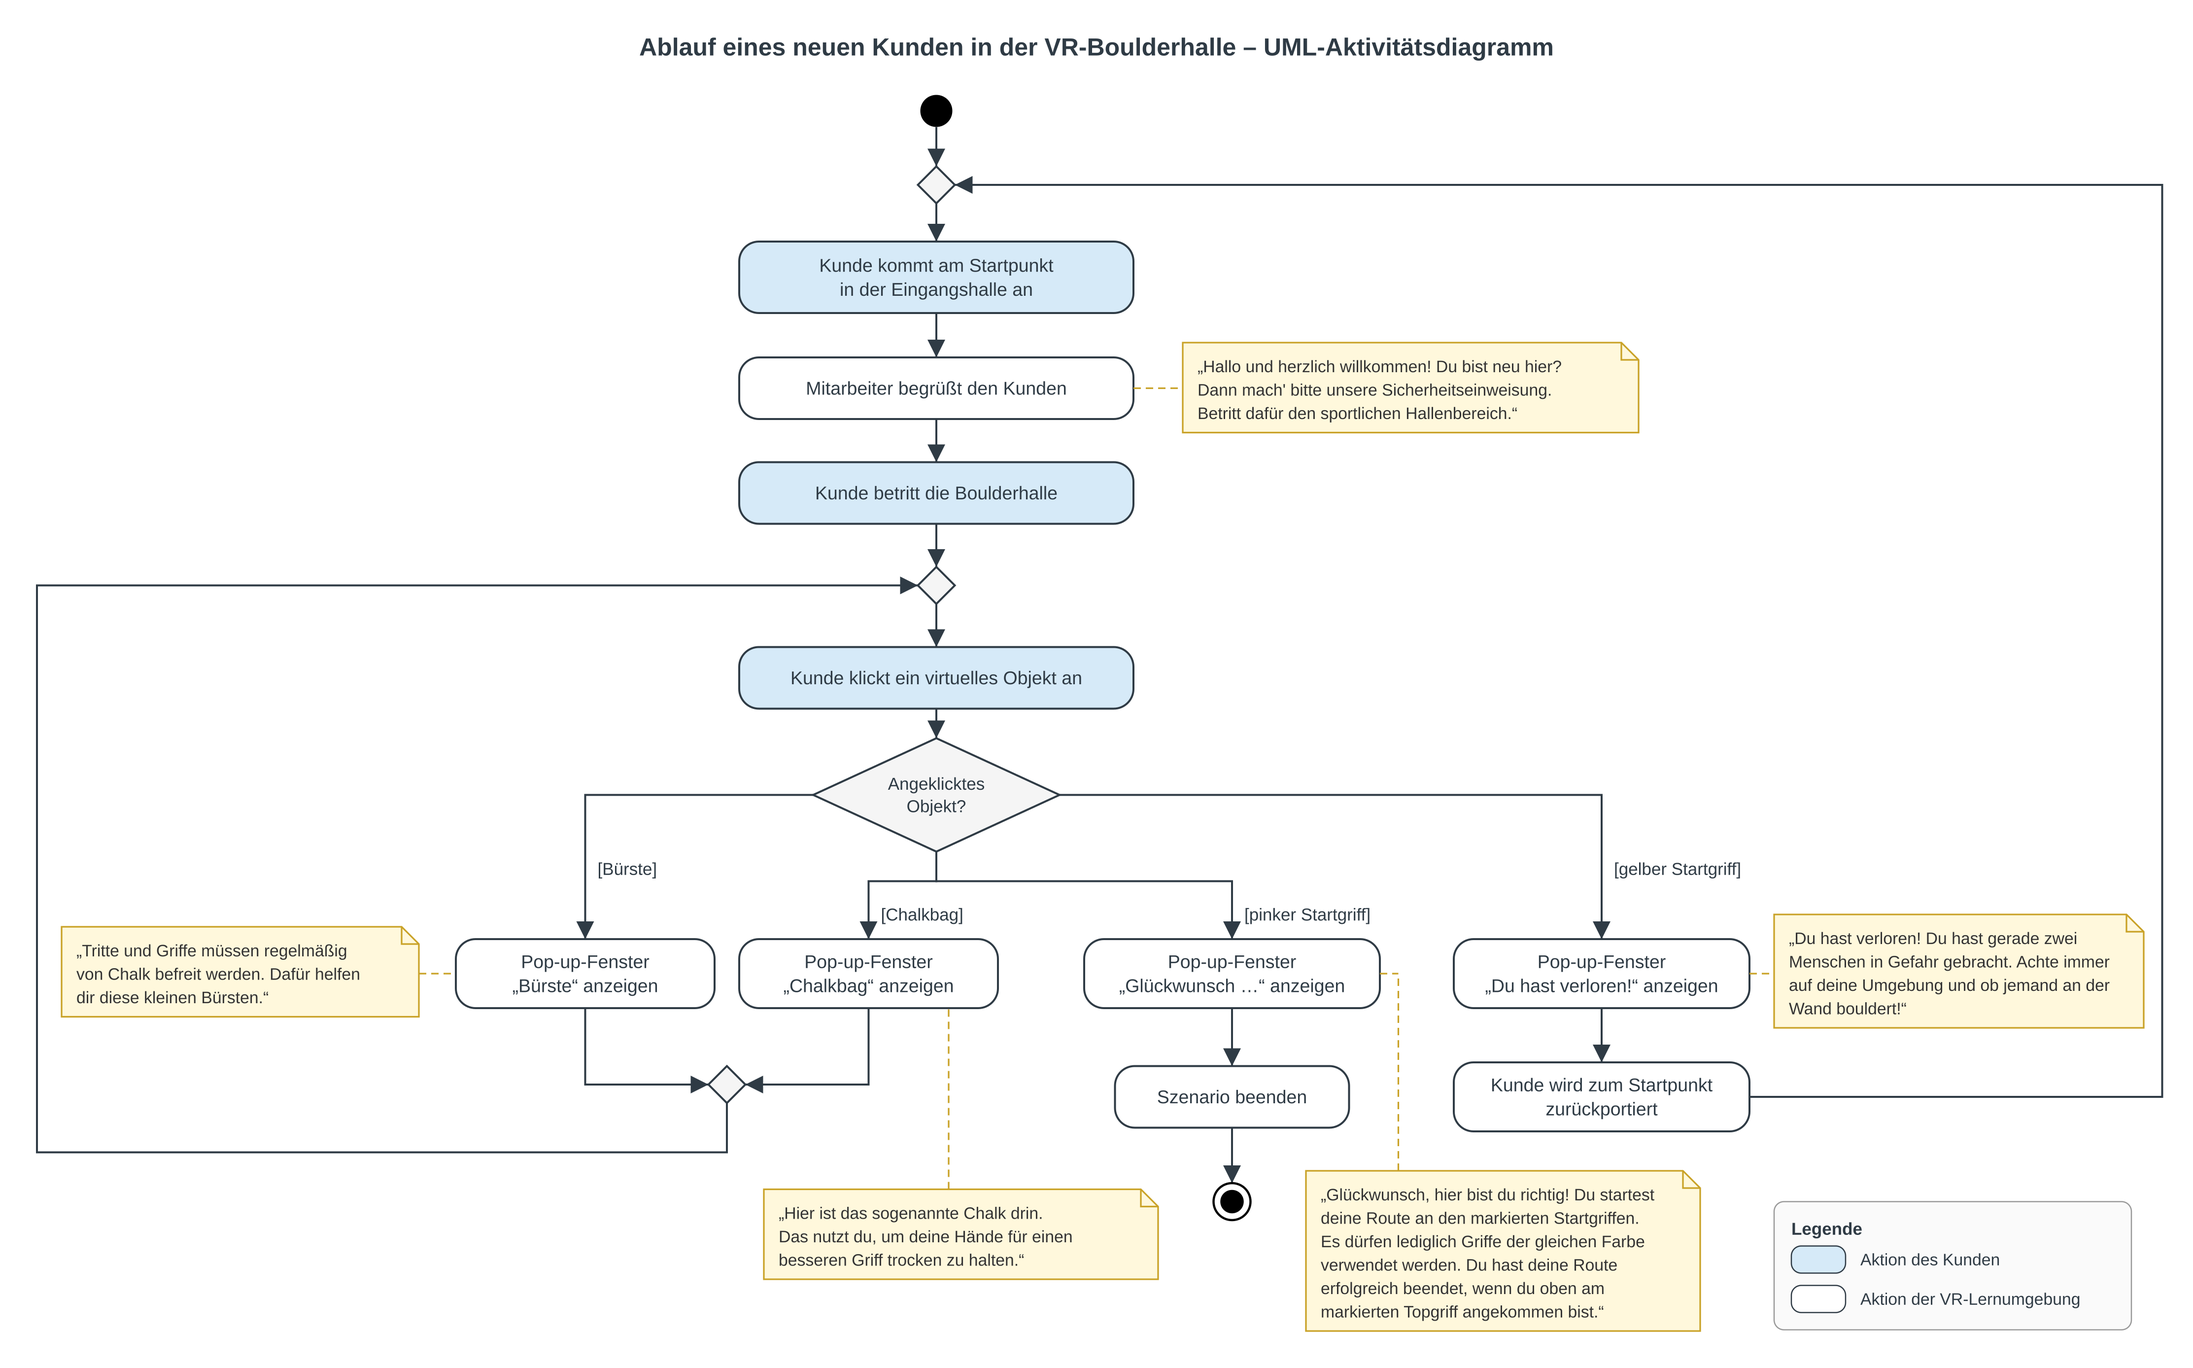
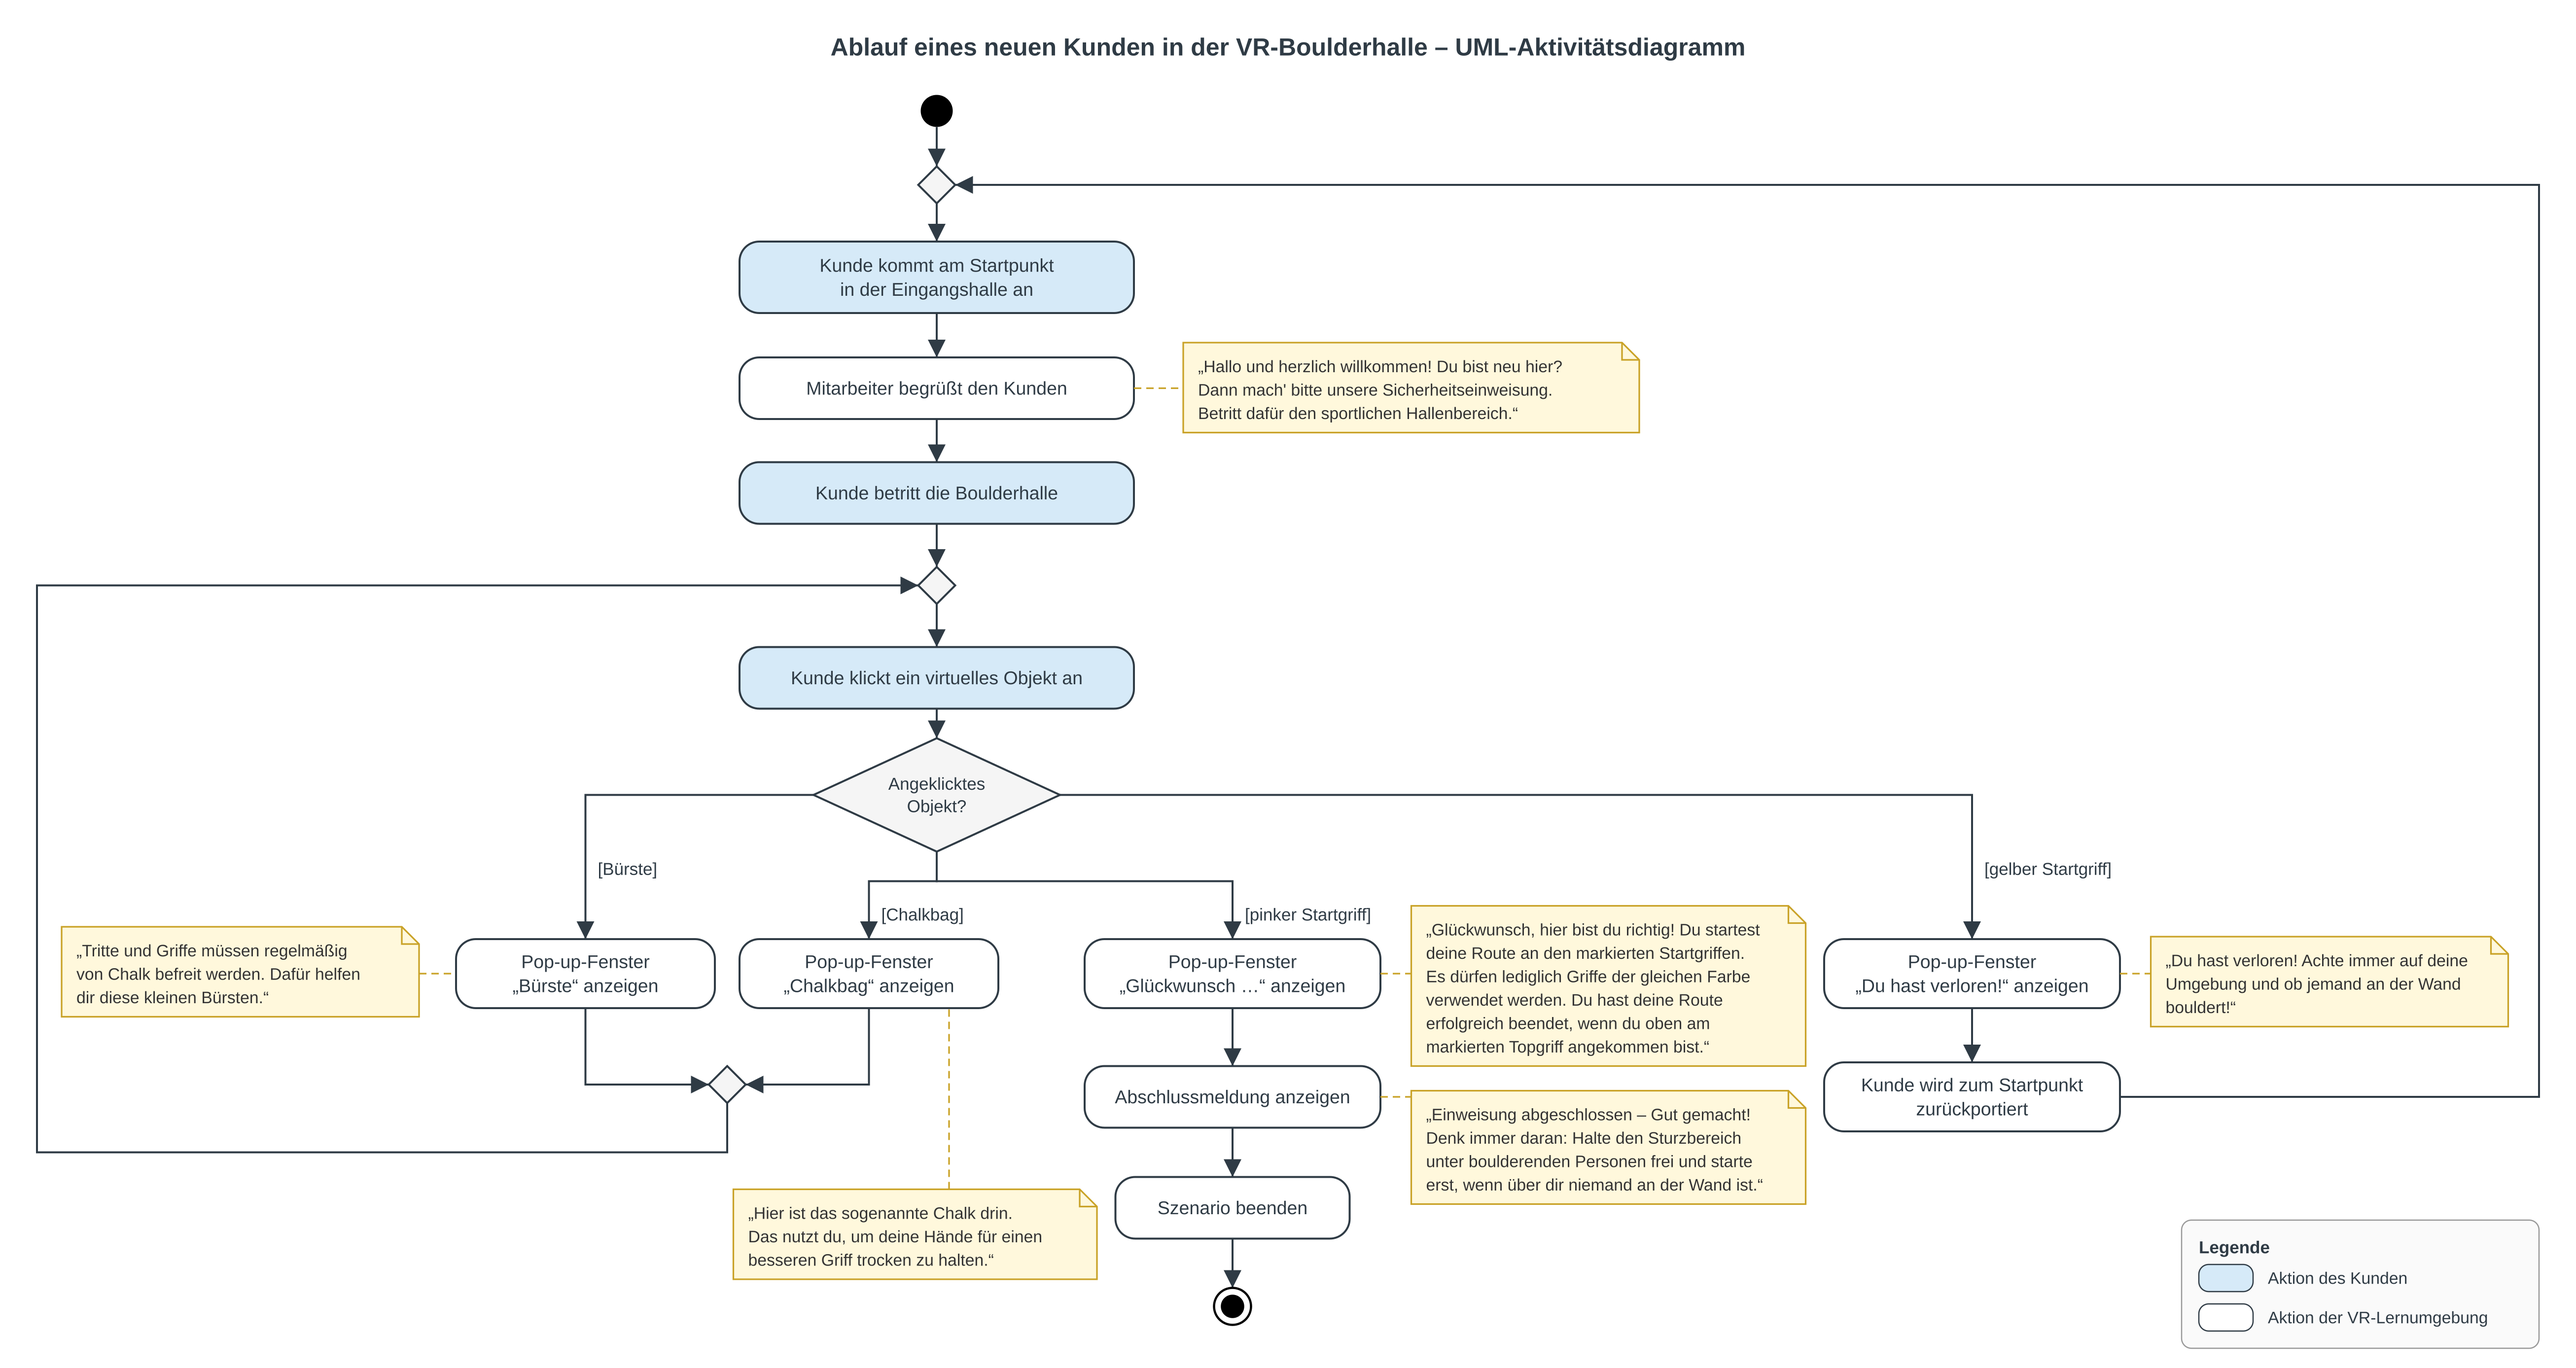
Neuer Text "Du hast verloren!" und Abschlussmeldung im Aktivitätsdiagramm
- Diagramm: gekürzter Text am gelben Startgriff, Aktion "Abschlussmeldung
  anzeigen" mit Text vor dem Szenarioende am pinken Startgriff
- ScenarioBuilder: gekürzten Text aus der Szene übernommen, damit er beim
  Neuerzeugen erhalten bleibt

Claude-Session: https://claude.ai/code/session_017R8gbnpcZh4RU8y5uNw3f7

diff --git a/docs/aktivitaetsdiagramm_kundenablauf.py b/docs/aktivitaetsdiagramm_kundenablauf.py
@@ -6,7 +6,7 @@ Texte und Positionen lassen sich unten direkt anpassen.
 """
 from xml.sax.saxutils import escape
 
-W, H = 1780, 1110
+W, H = 2090, 1110
 FONT = "Arial, Liberation Sans, Helvetica, sans-serif"
 LINE, KUNDE, SYSTEM, RAUTE = "#2F3B45", "#D6EAF8", "#FFFFFF", "#F5F5F5"
 NOTIZ, NOTIZ_RAND = "#FFF8DC", "#C9A227"
@@ -87,18 +87,20 @@ flow(a4["bottom"], d["top"])
 
 # Zweige
 by, by2 = 790, 890
-PX, GX = 1000, 1300  # Spalten pinker / gelber Startgriff
+PX, GX = 1000, 1600  # Spalten pinker / gelber Startgriff
 b1 = action(475, by, 210, 56, ["Pop-up-Fenster", "„Bürste“ anzeigen"])
 b2 = action(705, by, 210, 56, ["Pop-up-Fenster", "„Chalkbag“ anzeigen"])
 b3 = action(PX, by, 240, 56, ["Pop-up-Fenster", "„Glückwunsch …“ anzeigen"])
-b3b = action(PX, by2, 190, 50, "Szenario beenden")
+b3c = action(PX, by2, 240, 50, "Abschlussmeldung anzeigen")
+b3b = action(PX, 980, 190, 50, "Szenario beenden")
 b4 = action(GX, by, 240, 56, ["Pop-up-Fenster", "„Du hast verloren!“ anzeigen"])
 b4b = action(GX, by2, 240, 56, ["Kunde wird zum Startpunkt", "zurückportiert"])
 flow(d["left"], (475, 645), b1["top"], guard="[Bürste]", gpos=(485, 705), ganchor="start")
 flow(d["bottom"], (C, 715), (705, 715), b2["top"], guard="[Chalkbag]", gpos=(715, 742), ganchor="start")
 flow(d["bottom"], (C, 715), (PX, 715), b3["top"], guard="[pinker Startgriff]", gpos=(PX + 10, 742), ganchor="start")
 flow(d["right"], (GX, 645), b4["top"], guard="[gelber Startgriff]", gpos=(GX + 10, 705), ganchor="start")
-flow(b3["bottom"], b3b["top"])
+flow(b3["bottom"], b3c["top"])
+flow(b3c["bottom"], b3b["top"])
 flow(b4["bottom"], b4b["top"])
 
 # Bürste/Chalkbag -> zurück zum Anklicken
@@ -108,36 +110,36 @@ flow(b2["bottom"], (705, 880), m3["right"])
 flow(m3["bottom"], (590, 935), (30, 935), (30, 475), m2["left"])
 
 # Gelber Startgriff -> zurück zum Startpunkt
-flow(b4b["right"], (1755, by2), (1755, 150), m1["right"])
+flow(b4b["right"], (2060, by2), (2060, 150), m1["right"])
 
 # Pinker Startgriff -> Ende
-flow(b3b["bottom"], (PX, 960))
-out.append(f'<circle cx="{PX}" cy="975" r="15" fill="none" stroke="#000" stroke-width="1.8"/>')
-out.append(f'<circle cx="{PX}" cy="975" r="9.5" fill="#000"/>')
-
-# Notizen zu den Startgriff-Pop-ups
-note(1440, 742, 300, ["„Du hast verloren! Du hast gerade zwei",
-                      "Menschen in Gefahr gebracht. Achte immer",
-                      "auf deine Umgebung und ob jemand an der",
-                      "Wand bouldert!“"], attach=(b4["right"], (1440, 790)))
-note(1060, 950, 320, ["„Glückwunsch, hier bist du richtig! Du startest",
-                      "deine Route an den markierten Startgriffen.",
-                      "Es dürfen lediglich Griffe der gleichen Farbe",
-                      "verwendet werden. Du hast deine Route",
-                      "erfolgreich beendet, wenn du oben am",
-                      "markierten Topgriff angekommen bist.“"], attach=((1135, 950), (1135, 790)))
-out.append(f'<line x1="{b3["right"][0]}" y1="790" x2="1135" y2="790" stroke="{NOTIZ_RAND}" stroke-width="1.3" stroke-dasharray="6,4"/>')
+flow(b3b["bottom"], (PX, 1045))
+out.append(f'<circle cx="{PX}" cy="1060" r="15" fill="none" stroke="#000" stroke-width="1.8"/>')
+out.append(f'<circle cx="{PX}" cy="1060" r="9.5" fill="#000"/>')
 
 # Notizen zu den Pop-ups
 note(50, 752, 290, ["„Tritte und Griffe müssen regelmäßig",
                     "von Chalk befreit werden. Dafür helfen",
                     "dir diese kleinen Bürsten.“"], attach=((340, 790), b1["left"]))
-note(620, 965, 320, ["„Hier ist das sogenannte Chalk drin.",
+note(595, 965, 295, ["„Hier ist das sogenannte Chalk drin.",
                      "Das nutzt du, um deine Hände für einen",
                      "besseren Griff trocken zu halten.“"], attach=((770, 965), (770, 818)))
+note(1145, 735, 320, ["„Glückwunsch, hier bist du richtig! Du startest",
+                      "deine Route an den markierten Startgriffen.",
+                      "Es dürfen lediglich Griffe der gleichen Farbe",
+                      "verwendet werden. Du hast deine Route",
+                      "erfolgreich beendet, wenn du oben am",
+                      "markierten Topgriff angekommen bist.“"], attach=(b3["right"], (1145, 790)))
+note(1145, 885, 320, ["„Einweisung abgeschlossen – Gut gemacht!",
+                      "Denk immer daran: Halte den Sturzbereich",
+                      "unter boulderenden Personen frei und starte",
+                      "erst, wenn über dir niemand an der Wand ist.“"], attach=(b3c["right"], (1145, 890)))
+note(1745, 760, 290, ["„Du hast verloren! Achte immer auf deine",
+                      "Umgebung und ob jemand an der Wand",
+                      "bouldert!“"], attach=(b4["right"], (1745, 790)))
 
 # Legende
-lx, ly = 1440, 975
+lx, ly = 1770, 990
 out.append(f'<rect x="{lx}" y="{ly}" width="290" height="104" rx="8" fill="#FAFAFA" stroke="#999"/>')
 text(lx + 14, ly + 22, "Legende", size=14, anchor="start", weight="bold")
 out.append(f'<rect x="{lx + 14}" y="{ly + 36}" width="44" height="22" rx="8" fill="{KUNDE}" stroke="{LINE}"/>')

diff --git a/Assets/Boulderhalle/Scripts/Runtime/Szenario/ScenarioBuilder.cs b/Assets/Boulderhalle/Scripts/Runtime/Szenario/ScenarioBuilder.cs
@@ -17,7 +17,7 @@ namespace Boulderhalle
         const string ChalkbagText = "Hier ist das sogenannte Chalk drin. Das nutzt du, um deine Hände für einen besseren Griff trocken zu halten.";
         const string BrushText = "Tritte und Griffe müssen regelmäßig von Chalk befreit werden. Dafür helfen dir diese kleinen Bürsten.";
         const string LoseTitle = "Du hast verloren!";
-        const string LoseText = "Du hast gerade zwei Menschen in Gefahr gebracht. Achte immer auf deine Umgebung und ob jemand an der Wand bouldert!";
+        const string LoseText = "Achte immer auf deine Umgebung und ob jemand an der Wand bouldert!";
         const string WinTitle = "Glückwunsch, hier bist du richtig!";
         const string WinText = "Du startest deine Route an den markierten Startgriffen. Es dürfen lediglich Griffe der gleichen Farbe verwendet werden. " +
                                "Du hast deine Route erfolgreich beendet, wenn du oben am markierten Topgriff angekommen bist.";
